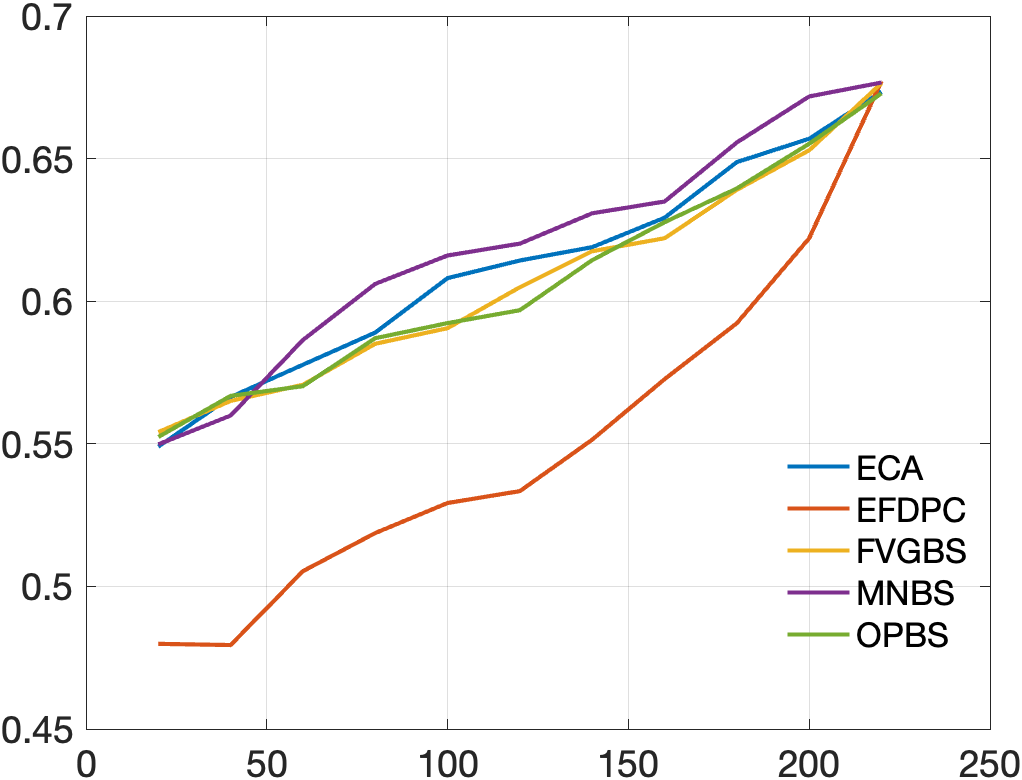
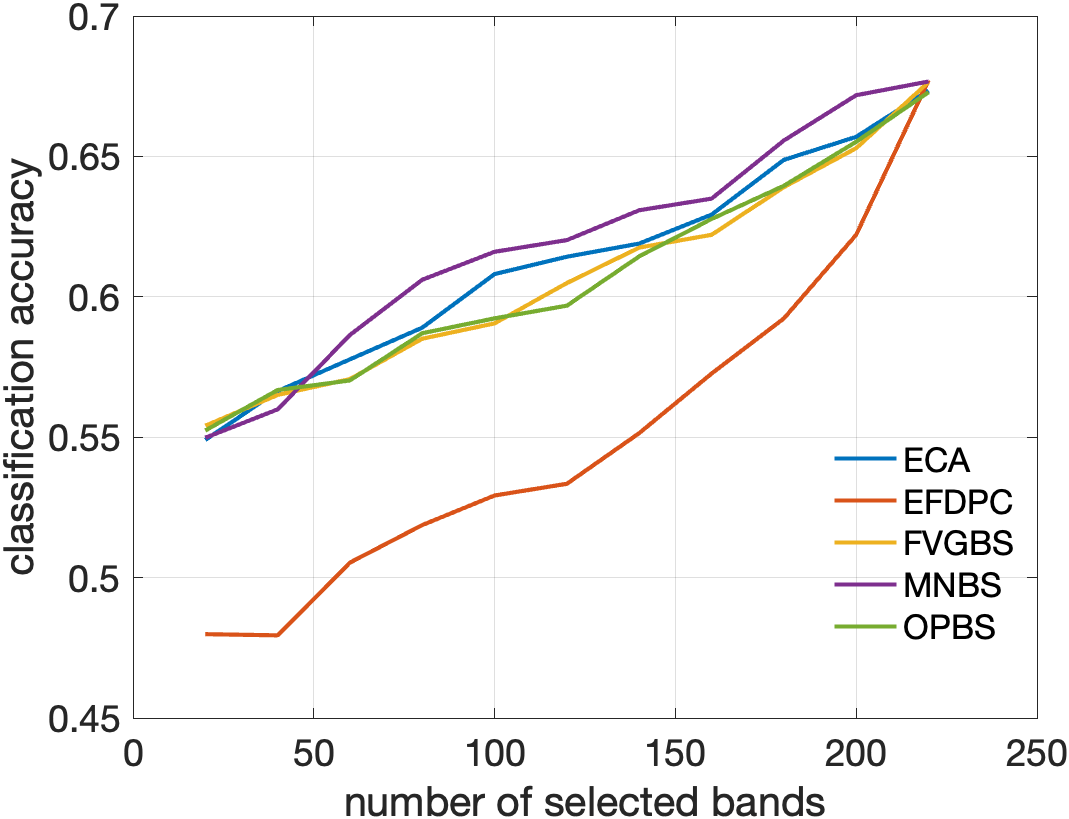
🎨 add xlabel and ylabel

diff --git a/Examples/BandSelection.m b/Examples/BandSelection.m
@@ -45,6 +45,8 @@ end
 acc = acc / t;
 %%
 figure, plot(bands, acc);
+xlabel('number of selected bands');
+ylabel('classification accuracy');
 legend(alg_list, 'Location', 'best');
 exportgraphics(gcf, 'Examples/results/band_sel_svm_acc.png');
 %%
